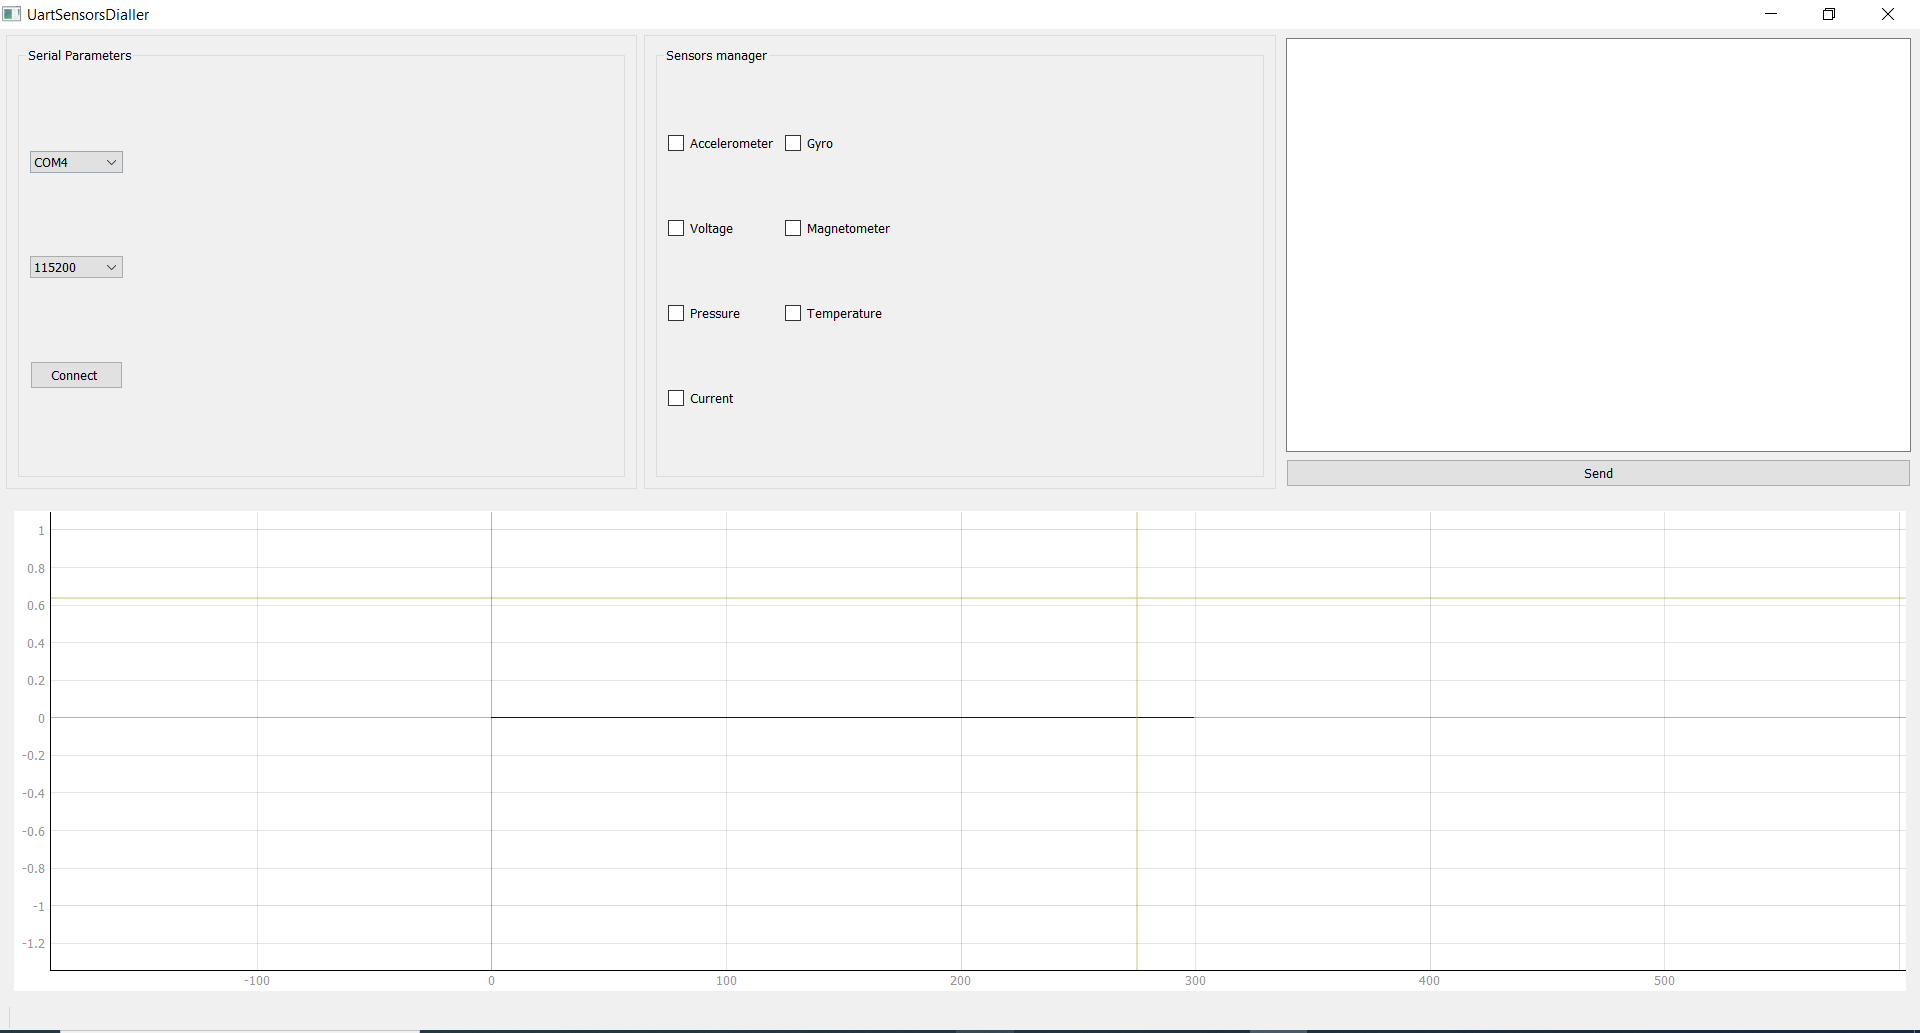
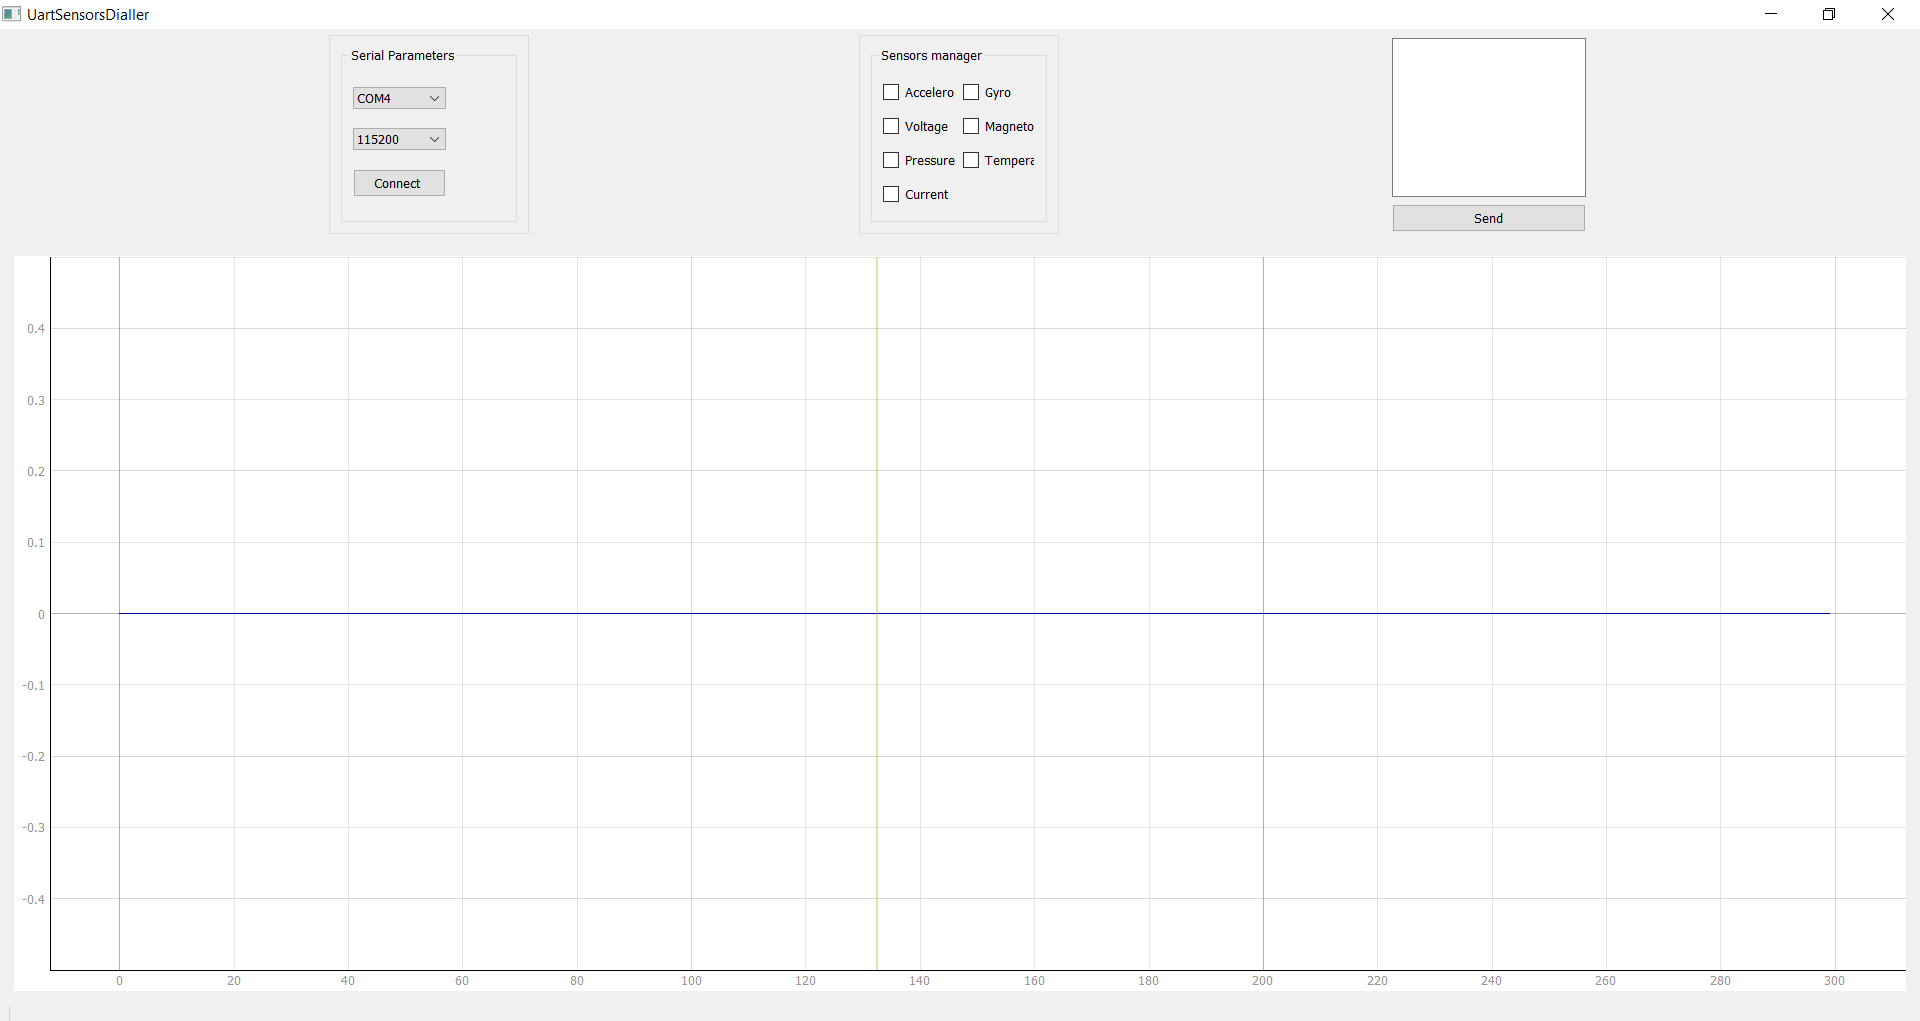
adjusted size

diff --git a/Diallers/Serial/Uart_plotter.py b/Diallers/Serial/Uart_plotter.py
@@ -104,6 +104,13 @@ class MainwindowSerialMonitor(QtWidgets.QMainWindow):
         self.statusText = QtWidgets.QLabel(self)
         self.statusBar().addWidget( self.statusText )
         
+              # Set fixed sizes for the widgets
+        self.uartparamsbox.setFixedSize(200, 200)
+        self.sensorsmanagerbox.setFixedSize(200, 200)
+        self.serialdatasend.setFixedSize(200, 200)
+        # self.sensorsplots.setFixedSize(800,1400)
+        
+        
         # Create a QHBoxLayout for the top widgets
         topLayout = QtWidgets.QHBoxLayout()
         topLayout.addWidget(self.uartparamsbox)

diff --git a/DevDiallerSer.py b/DevDiallerSer.py
@@ -408,3 +408,5 @@ if __name__ == '__main__':
     window = MainwindowSerialMonitor()
     
     app.exec()
+    
+    
